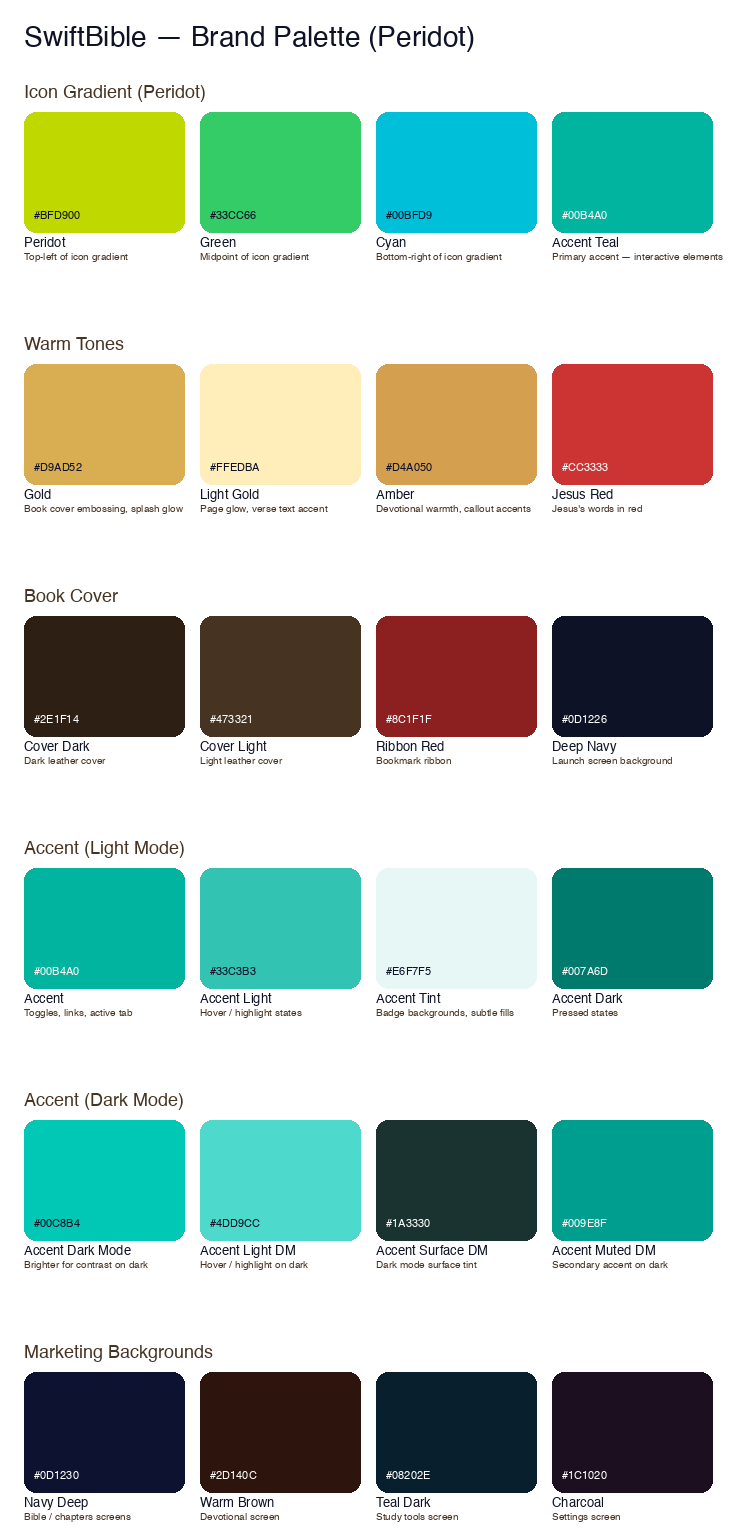
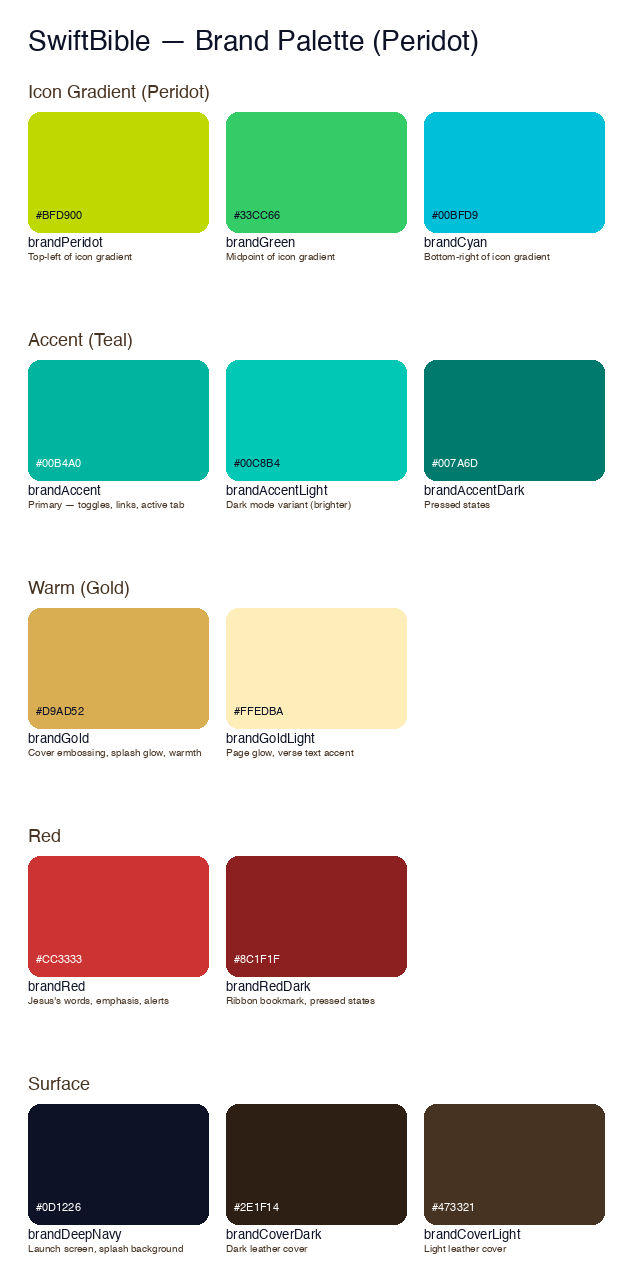
Consolidate brand palette: 16 colors → 13, standardize naming
- Merge brandAmber into brandGold (near-identical warm tones)
- Rename brandLightGold → brandGoldLight (consistent {Color}{Variant})
- Rename jesusWordsRed → brandRed (standardize brand prefix)
- Rename brandRibbonRed → brandRedDark (unified red family)
- Update generate_palette.py as source of truth and regenerate PNG
- Document full palette table in CLAUDE.md with update workflow
- Propagate renames through splash views, NotificationSettingsView,
  ParagraphView, and marketing screenshot generator

diff --git a/swiftbible/Views/Settings/NotificationSettingsView.swift b/swiftbible/Views/Settings/NotificationSettingsView.swift
@@ -24,7 +24,7 @@ struct NotificationSettingsView: View {
                         Circle()
                             .fill(
                                 LinearGradient(
-                                    colors: [Color.brandAmber.opacity(0.2), Color.brandGold.opacity(0.1)],
+                                    colors: [Color.brandGold.opacity(0.2), Color.brandGold.opacity(0.1)],
                                     startPoint: .topLeading,
                                     endPoint: .bottomTrailing
                                 )
@@ -35,7 +35,7 @@ struct NotificationSettingsView: View {
                             .font(.system(size: 34))
                             .foregroundStyle(
                                 LinearGradient(
-                                    colors: [.brandAmber, .brandGold],
+                                    colors: [.brandGold, .brandGold],
                                     startPoint: .topLeading,
                                     endPoint: .bottomTrailing
                                 )
@@ -170,7 +170,7 @@ struct NotificationSettingsView: View {
                     // Personal note styled as a warm quote callout
                     HStack(alignment: .top, spacing: 12) {
                         RoundedRectangle(cornerRadius: 2)
-                            .fill(Color.brandAmber.opacity(0.6))
+                            .fill(Color.brandGold.opacity(0.6))
                             .frame(width: 3)
 
                         VStack(alignment: .leading, spacing: 6) {

diff --git a/swiftbible/Extensions/Color.swift b/swiftbible/Extensions/Color.swift
@@ -69,14 +69,11 @@ extension Color {
     /// Deep navy — launch screen and splash background
     static let brandDeepNavy = Color(red: 0.05, green: 0.07, blue: 0.15)
 
-    /// Warm gold — book cover embossing, splash glow
+    /// Warm gold — book cover embossing, splash glow, devotional warmth
     static let brandGold = Color(red: 0.85, green: 0.68, blue: 0.32)
 
-    /// Light gold — page glow, verse text accent
-    static let brandLightGold = Color(red: 1.0, green: 0.93, blue: 0.72)
-
-    /// Warm amber — devotional section warmth, callout accents
-    static let brandAmber = Color(red: 0.83, green: 0.63, blue: 0.31) // #D4A050
+    /// Light gold tint — page glow, verse text accent
+    static let brandGoldLight = Color(red: 1.0, green: 0.93, blue: 0.72)
 
     /// Dark leather cover
     static let brandCoverDark = Color(red: 0.18, green: 0.12, blue: 0.08)
@@ -84,9 +81,9 @@ extension Color {
     /// Light leather cover
     static let brandCoverLight = Color(red: 0.28, green: 0.20, blue: 0.13)
 
-    /// Ribbon red bookmark
-    static let brandRibbonRed = Color(red: 0.55, green: 0.12, blue: 0.12)
+    /// Brand red — Jesus's words, ribbon bookmark, emphasis
+    static let brandRed = Color(red: 0.8, green: 0.2, blue: 0.2) // #CC3333
 
-    /// Jesus's words in red
-    static let jesusWordsRed = Color(red: 0.8, green: 0.2, blue: 0.2) // #CC3333
+    /// Dark red — ribbon bookmark, pressed states
+    static let brandRedDark = Color(red: 0.55, green: 0.12, blue: 0.12)
 }

diff --git a/swiftbible/Views/Splash/BookOpeningSplashView.swift b/swiftbible/Views/Splash/BookOpeningSplashView.swift
@@ -39,10 +39,10 @@ struct BookOpeningSplashView: View {
 
     private let deepNavy = Color.brandDeepNavy
     private let warmGold = Color.brandGold
-    private let lightGold = Color.brandLightGold
+    private let lightGold = Color.brandGoldLight
     private let coverDark = Color.brandCoverDark
     private let coverLight = Color.brandCoverLight
-    private let ribbonRed = Color.brandRibbonRed
+    private let ribbonRed = Color.brandRedDark
 
     private let bookW: CGFloat = 140
     private let bookH: CGFloat = 185

diff --git a/swiftbible/Views/Bible/ParagraphView.swift b/swiftbible/Views/Bible/ParagraphView.swift
@@ -60,7 +60,7 @@ struct ParagraphView: View {
                     verseText = verseText
                         + Text(text)
                             .font(Font.custom(fontName, size: CGFloat(fontSize)))
-                            .foregroundColor(showJesusWordsInRed ? .jesusWordsRed : .primary)
+                            .foregroundColor(showJesusWordsInRed ? .brandRed : .primary)
                 }
             }
 

diff --git a/scripts/generate_palette.py b/scripts/generate_palette.py
@@ -2,75 +2,66 @@
 SwiftBible — Brand Palette Generator
 Generates a visual palette swatch PNG based on the app icon's peridot gradient.
 
+This is the SOURCE OF TRUTH for the brand palette.
+Color.swift and marketing scripts should match these values.
+
 Grounded in Gatena Cookbook behavioural principles:
   - Biophilia Effect → natural peridot green, cyan
   - Halo Effect → icon gradient creates premium first impression
   - Von Restorff Effect → teal accent pops against warm/neutral tones
-  - Processing Fluency → 5 core groups, expanded with tints/shades
-  - Nostalgia Effect → warm gold/amber evoke timeless craftsmanship
+  - Processing Fluency → 4 core groups, clean naming
+  - Nostalgia Effect → warm gold evokes timeless craftsmanship
 """
 
 from PIL import Image, ImageDraw, ImageFont
 
-# ── Brand Palette (matches swiftbible/Extensions/Color.swift) ────────
+# ── Brand Palette ────────────────────────────────────────────────────
+# Naming convention: brand{Color} / brand{Color}{Variant}
+# All colors derive from the icon's peridot gradient or complement it.
 
 palette = {
     "Icon Gradient (Peridot)": [
-        ("#BFD900", "Peridot", "Top-left of icon gradient"),
-        ("#33CC66", "Green", "Midpoint of icon gradient"),
-        ("#00BFD9", "Cyan", "Bottom-right of icon gradient"),
-        ("#00B4A0", "Accent Teal", "Primary accent — interactive elements"),
+        ("#BFD900", "brandPeridot", "Top-left of icon gradient"),
+        ("#33CC66", "brandGreen", "Midpoint of icon gradient"),
+        ("#00BFD9", "brandCyan", "Bottom-right of icon gradient"),
     ],
-    "Warm Tones": [
-        ("#D9AD52", "Gold", "Book cover embossing, splash glow"),
-        ("#FFEDBA", "Light Gold", "Page glow, verse text accent"),
-        ("#D4A050", "Amber", "Devotional warmth, callout accents"),
-        ("#CC3333", "Jesus Red", "Jesus's words in red"),
+    "Accent (Teal)": [
+        ("#00B4A0", "brandAccent", "Primary — toggles, links, active tab"),
+        ("#00C8B4", "brandAccentLight", "Dark mode variant (brighter)"),
+        ("#007A6D", "brandAccentDark", "Pressed states"),
     ],
-    "Book Cover": [
-        ("#2E1F14", "Cover Dark", "Dark leather cover"),
-        ("#473321", "Cover Light", "Light leather cover"),
-        ("#8C1F1F", "Ribbon Red", "Bookmark ribbon"),
-        ("#0D1226", "Deep Navy", "Launch screen background"),
+    "Warm (Gold)": [
+        ("#D9AD52", "brandGold", "Cover embossing, splash glow, warmth"),
+        ("#FFEDBA", "brandGoldLight", "Page glow, verse text accent"),
     ],
-    "Accent (Light Mode)": [
-        ("#00B4A0", "Accent", "Toggles, links, active tab"),
-        ("#33C3B3", "Accent Light", "Hover / highlight states"),
-        ("#E6F7F5", "Accent Tint", "Badge backgrounds, subtle fills"),
-        ("#007A6D", "Accent Dark", "Pressed states"),
+    "Red": [
+        ("#CC3333", "brandRed", "Jesus's words, emphasis, alerts"),
+        ("#8C1F1F", "brandRedDark", "Ribbon bookmark, pressed states"),
     ],
-    "Accent (Dark Mode)": [
-        ("#00C8B4", "Accent Dark Mode", "Brighter for contrast on dark"),
-        ("#4DD9CC", "Accent Light DM", "Hover / highlight on dark"),
-        ("#1A3330", "Accent Surface DM", "Dark mode surface tint"),
-        ("#009E8F", "Accent Muted DM", "Secondary accent on dark"),
-    ],
-    "Marketing Backgrounds": [
-        ("#0D1230", "Navy Deep", "Bible / chapters screens"),
-        ("#2D140C", "Warm Brown", "Devotional screen"),
-        ("#08202E", "Teal Dark", "Study tools screen"),
-        ("#1C1020", "Charcoal", "Settings screen"),
+    "Surface": [
+        ("#0D1226", "brandDeepNavy", "Launch screen, splash background"),
+        ("#2E1F14", "brandCoverDark", "Dark leather cover"),
+        ("#473321", "brandCoverLight", "Light leather cover"),
     ],
 }
 
 # ── Image Generation ─────────────────────────────────────────────────
-SWATCH_W = 160
+SWATCH_W = 180
 SWATCH_H = 120
-PADDING = 24
-ROW_GAP = 48
-COL_GAP = 16
+PADDING = 28
+ROW_GAP = 44
+COL_GAP = 18
 LABEL_H = 56
 
 cols = max(len(v) for v in palette.values())
 rows = len(palette)
 
 img_w = PADDING * 2 + cols * SWATCH_W + (cols - 1) * COL_GAP
-img_h = PADDING * 2 + rows * (SWATCH_H + LABEL_H + ROW_GAP) + 140
+img_h = PADDING * 2 + rows * (SWATCH_H + LABEL_H + ROW_GAP) + 120
 
 img = Image.new("RGB", (img_w, img_h), "#FFFFFF")
 draw = ImageDraw.Draw(img)
 
-# Try to load a nice font, fall back to default
 try:
     font_title = ImageFont.truetype("/System/Library/Fonts/Helvetica.ttc", 28)
     font_group = ImageFont.truetype("/System/Library/Fonts/Helvetica.ttc", 18)
@@ -92,24 +83,21 @@ draw.text(
     font=font_title,
 )
 
-y = PADDING + 60
+y = PADDING + 56
 
 for group_name, colors in palette.items():
-    # Group label
     draw.text((PADDING, y), group_name, fill="#473321", font=font_group)
     y += 28
 
     for i, (hex_color, name, desc) in enumerate(colors):
         x = PADDING + i * (SWATCH_W + COL_GAP)
 
-        # Swatch with rounded corners
         draw.rounded_rectangle(
             [x, y, x + SWATCH_W, y + SWATCH_H],
             radius=12,
             fill=hex_color,
         )
 
-        # Determine text color for contrast
         r = int(hex_color[1:3], 16)
         g = int(hex_color[3:5], 16)
         b = int(hex_color[5:7], 16)
@@ -118,20 +106,18 @@ for group_name, colors in palette.items():
 
         # Hex on swatch
         draw.text(
-            (x + 10, y + SWATCH_H - 22),
+            (x + 8, y + SWATCH_H - 22),
             hex_color,
             fill=text_on_swatch,
             font=font_hex,
         )
 
-        # Name below swatch
+        # Name + description below
         draw.text((x, y + SWATCH_H + 4), name, fill="#0D1226", font=font_name)
-        # Description below name
         draw.text((x, y + SWATCH_H + 20), desc, fill="#473321", font=font_desc)
 
     y += SWATCH_H + LABEL_H + ROW_GAP
 
-# Save
 output_path = "brand-palette.png"
 img.save(output_path, "PNG")
 print(f"Palette saved to {output_path}")

diff --git a/appstore/generate_marketing_screenshots.py b/appstore/generate_marketing_screenshots.py
@@ -23,31 +23,30 @@ from PIL import Image, ImageDraw, ImageFont, ImageFilter, ImageChops
 
 SCRIPT_DIR = os.path.dirname(os.path.abspath(__file__))
 
-# --- Brand Palette (matches swiftbible/Extensions/Color.swift) ---
+# --- Brand Palette (source of truth: scripts/generate_palette.py) ---
 # Icon gradient (peridot)
-PERIDOT = (191, 217, 0)       # brandPeridot  0.75, 0.85, 0.0
-GREEN = (51, 204, 102)        # brandGreen    0.2, 0.8, 0.4
-CYAN = (0, 191, 217)          # brandCyan     0.0, 0.75, 0.85
-ACCENT = (0, 180, 160)        # brandAccent   0.0, 0.71, 0.63
-# Backgrounds
-DEEP_NAVY = (13, 18, 38)      # brandDeepNavy 0.05, 0.07, 0.15
-# Warm tones
-GOLD = (217, 173, 82)         # brandGold     0.85, 0.68, 0.32
-LIGHT_GOLD = (255, 237, 184)  # brandLightGold
-AMBER = (212, 161, 79)        # brandAmber    0.83, 0.63, 0.31
-# Book cover
+PERIDOT = (191, 217, 0)       # brandPeridot
+GREEN = (51, 204, 102)        # brandGreen
+CYAN = (0, 191, 217)          # brandCyan
+# Accent (teal)
+ACCENT = (0, 180, 160)        # brandAccent
+# Warm (gold)
+GOLD = (217, 173, 82)         # brandGold
+GOLD_LIGHT = (255, 237, 184)  # brandGoldLight
+# Red
+RED = (204, 51, 51)           # brandRed
+RED_DARK = (140, 31, 31)      # brandRedDark
+# Surface
+DEEP_NAVY = (13, 18, 38)      # brandDeepNavy
 COVER_DARK = (46, 31, 20)     # brandCoverDark
-RIBBON_RED = (140, 31, 31)    # brandRibbonRed
-# Semantic
-JESUS_RED = (204, 51, 51)     # jesusWordsRed
 
 # Headline gradient tints (white → brand-tinted)
 TINT_TEAL = (180, 240, 230)       # derived from ACCENT
 TINT_TEAL_HERO = (180, 240, 220)  # warmer teal for hero headlines
 TINT_BLUE = (180, 230, 255)       # derived from CYAN
-TINT_RED = (255, 200, 200)        # derived from RIBBON_RED
+TINT_RED = (255, 200, 200)        # derived from RED
 TINT_GOLD = (255, 230, 160)       # derived from GOLD
-TINT_WARM = (255, 220, 170)       # derived from AMBER
+TINT_WARM = (255, 220, 170)       # derived from GOLD (warm variant)
 TINT_NEUTRAL = (220, 220, 240)    # neutral light
 SUBTITLE_COLOR = (180, 180, 200, 230)
 SUBTITLE_COLOR_STRIP = (180, 180, 200, 200)
@@ -103,7 +102,7 @@ SCREENSHOTS = [
         "style": "tilt_left",
         "grad_top": (45, 12, 18),       # deep warm red (ribbon red family)
         "grad_bot": (72, 20, 30),
-        "orbs": [(0.3, 0.35, 0.5, RIBBON_RED, 45), (0.85, 0.65, 0.3, JESUS_RED, 30)],
+        "orbs": [(0.3, 0.35, 0.5, RED_DARK, 45), (0.85, 0.65, 0.3, RED, 30)],
         "headline_grad": ((255, 255, 255), TINT_RED),
     },
     {
@@ -124,7 +123,7 @@ SCREENSHOTS = [
         "style": "split",
         "grad_top": (38, 30, 10),       # warm amber/gold (brand warm family)
         "grad_bot": (60, 48, 16),
-        "orbs": [(0.5, 0.3, 0.55, GOLD, 45), (0.15, 0.7, 0.3, AMBER, 25)],
+        "orbs": [(0.5, 0.3, 0.55, GOLD, 45), (0.15, 0.7, 0.3, GOLD, 25)],
         "headline_grad": ((255, 255, 255), TINT_GOLD),
     },
     {
@@ -134,7 +133,7 @@ SCREENSHOTS = [
         "style": "tilt_right",
         "grad_top": (42, 26, 10),       # warm brown (cover dark family)
         "grad_bot": (65, 40, 14),
-        "orbs": [(0.6, 0.3, 0.45, GOLD, 45), (0.2, 0.65, 0.35, AMBER, 30)],
+        "orbs": [(0.6, 0.3, 0.45, GOLD, 45), (0.2, 0.65, 0.35, GOLD, 30)],
         "headline_grad": ((255, 255, 255), TINT_WARM),
     },
     {
@@ -168,9 +167,9 @@ PANORAMIC_PAIRS = [
         "orbs": [
             (0.15, 0.3, 0.22, CYAN, 50),
             (0.5, 0.45, 0.28, ACCENT, 55),
-            (0.85, 0.35, 0.22, RIBBON_RED, 50),
+            (0.85, 0.35, 0.22, RED_DARK, 50),
             (0.35, 0.7, 0.18, GREEN, 30),
-            (0.65, 0.65, 0.18, JESUS_RED, 30),
+            (0.65, 0.65, 0.18, RED, 30),
         ],
         "left_headline_grad": ((255, 255, 255), TINT_BLUE),
         "right_headline_grad": ((255, 255, 255), TINT_RED),
@@ -190,9 +189,9 @@ PANORAMIC_PAIRS = [
         "grad_br": (28, 32, 48),
         "orbs": [
             (0.2, 0.3, 0.22, GOLD, 50),
-            (0.5, 0.4, 0.25, AMBER, 45),
+            (0.5, 0.4, 0.25, GOLD, 45),
             (0.8, 0.35, 0.22, ACCENT, 40),
-            (0.35, 0.65, 0.16, AMBER, 28),
+            (0.35, 0.65, 0.16, GOLD, 28),
             (0.7, 0.7, 0.16, CYAN, 25),
         ],
         "left_headline_grad": ((255, 255, 255), TINT_WARM),
@@ -237,12 +236,12 @@ PANORAMIC_STRIP = {
     "orbs": [
         (0.05, 0.30, 0.06, CYAN, 55),
         (0.15, 0.55, 0.05, GREEN, 40),
-        (0.25, 0.35, 0.06, RIBBON_RED, 45),
+        (0.25, 0.35, 0.06, RED_DARK, 45),
         (0.35, 0.50, 0.07, ACCENT, 50),
         (0.45, 0.40, 0.06, ACCENT, 45),
         (0.55, 0.55, 0.06, GREEN, 42),
         (0.65, 0.35, 0.06, GOLD, 40),
-        (0.75, 0.50, 0.07, AMBER, 45),
+        (0.75, 0.50, 0.07, GOLD, 45),
         (0.85, 0.40, 0.06, GOLD, 38),
         (0.95, 0.35, 0.06, ACCENT, 35),
     ],
@@ -933,12 +932,12 @@ ULTIMATE_STRIP = {
     "orbs": [
         (0.05, 0.30, 0.06, CYAN, 55),
         (0.15, 0.55, 0.05, GREEN, 40),
-        (0.25, 0.35, 0.06, RIBBON_RED, 45),
+        (0.25, 0.35, 0.06, RED_DARK, 45),
         (0.35, 0.50, 0.07, ACCENT, 50),
         (0.45, 0.40, 0.06, ACCENT, 45),
         (0.55, 0.55, 0.06, GREEN, 42),
         (0.65, 0.35, 0.06, GOLD, 40),
-        (0.75, 0.50, 0.07, AMBER, 45),
+        (0.75, 0.50, 0.07, GOLD, 45),
         (0.85, 0.40, 0.06, GOLD, 38),
         (0.95, 0.35, 0.06, ACCENT, 35),
     ],

diff --git a/CLAUDE.md b/CLAUDE.md
@@ -224,6 +224,30 @@ BibleView → BibleService.fetchEnochData() → enoch.json → UI rendering
 - **Navigation benefits**: Users can study specific aspects (astronomy, dreams, etc.)
 - **Historical context**: Preserves understanding of textual development
 
+## Brand Palette
+
+**Source of truth:** `scripts/generate_palette.py` → outputs `scripts/brand-palette.png`
+
+The palette derives from the app icon's peridot (August birthstone) gradient. All colors use `brand{Color}{Variant}` naming in `swiftbible/Extensions/Color.swift`.
+
+| Group | Name | Hex | Usage |
+|-------|------|-----|-------|
+| **Icon Gradient** | `brandPeridot` | `#BFD900` | Top-left of icon gradient |
+| | `brandGreen` | `#33CC66` | Midpoint of icon gradient |
+| | `brandCyan` | `#00BFD9` | Bottom-right of icon gradient |
+| **Accent** | `brandAccent` | `#00B4A0` | Primary — toggles, links, active tab |
+| | `brandAccentLight` | `#00C8B4` | Dark mode variant (brighter) |
+| | `brandAccentDark` | `#007A6D` | Pressed states |
+| **Warm** | `brandGold` | `#D9AD52` | Cover embossing, splash glow, warmth |
+| | `brandGoldLight` | `#FFEDBA` | Page glow, verse text accent |
+| **Red** | `brandRed` | `#CC3333` | Jesus's words, emphasis, alerts |
+| | `brandRedDark` | `#8C1F1F` | Ribbon bookmark, pressed states |
+| **Surface** | `brandDeepNavy` | `#0D1226` | Launch screen, splash background |
+| | `brandCoverDark` | `#2E1F14` | Dark leather cover |
+| | `brandCoverLight` | `#473321` | Light leather cover |
+
+When adding colors, update `generate_palette.py` first, regenerate the PNG, then update `Color.swift` and `generate_marketing_screenshots.py` to match.
+
 ## Deployment
 
 **NEVER manually deploy Edge Functions or push migrations.** Merging to `master` triggers CI/CD which automatically deploys Edge Functions and runs Supabase migrations. Do not run `supabase functions deploy`, `supabase db push`, or any manual deployment commands.
